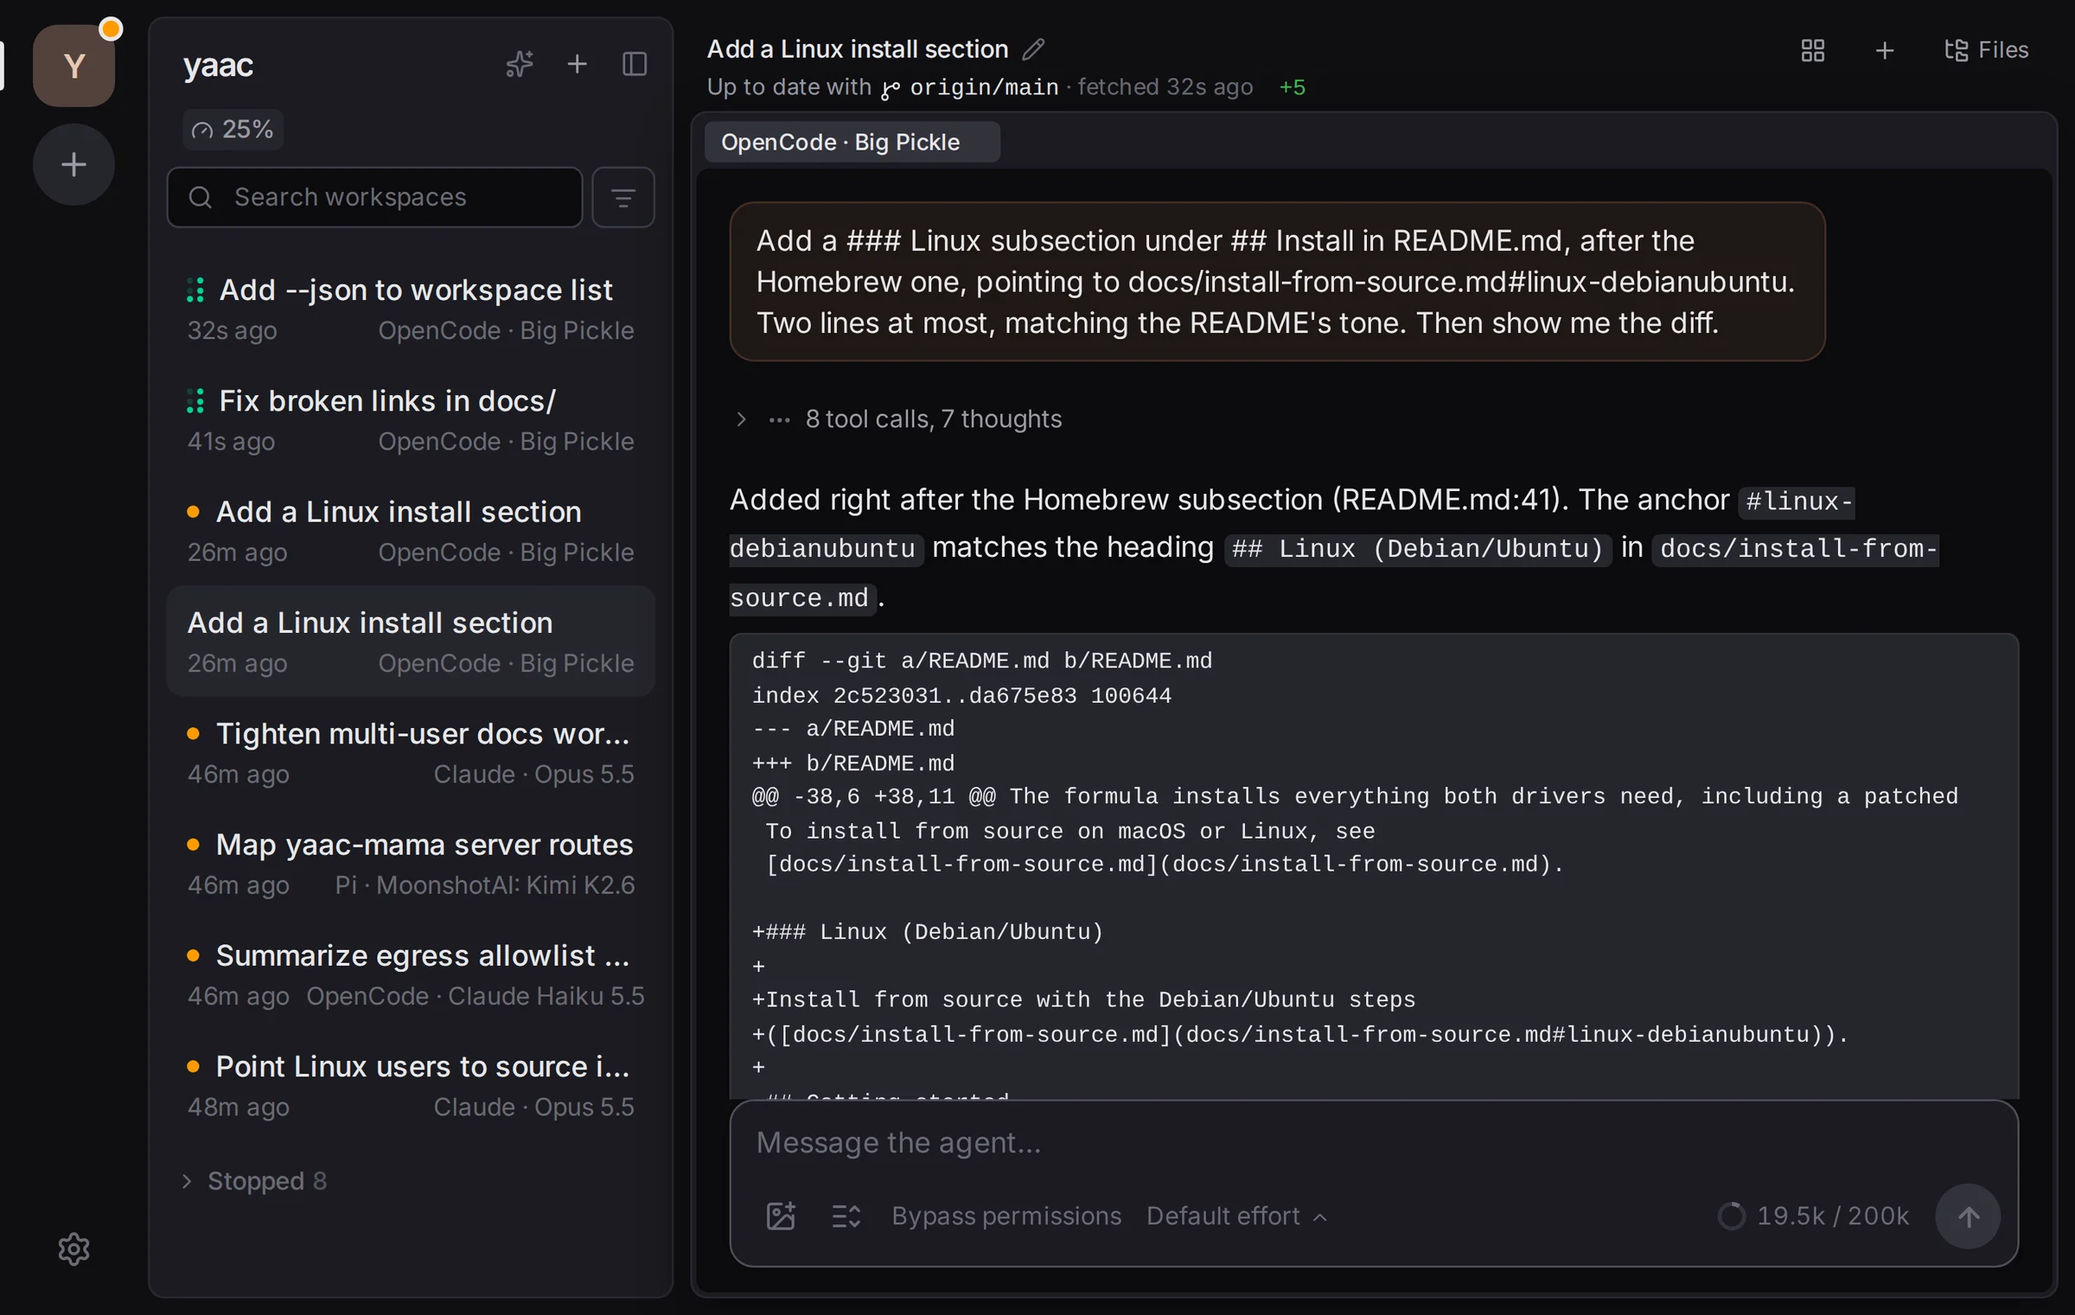
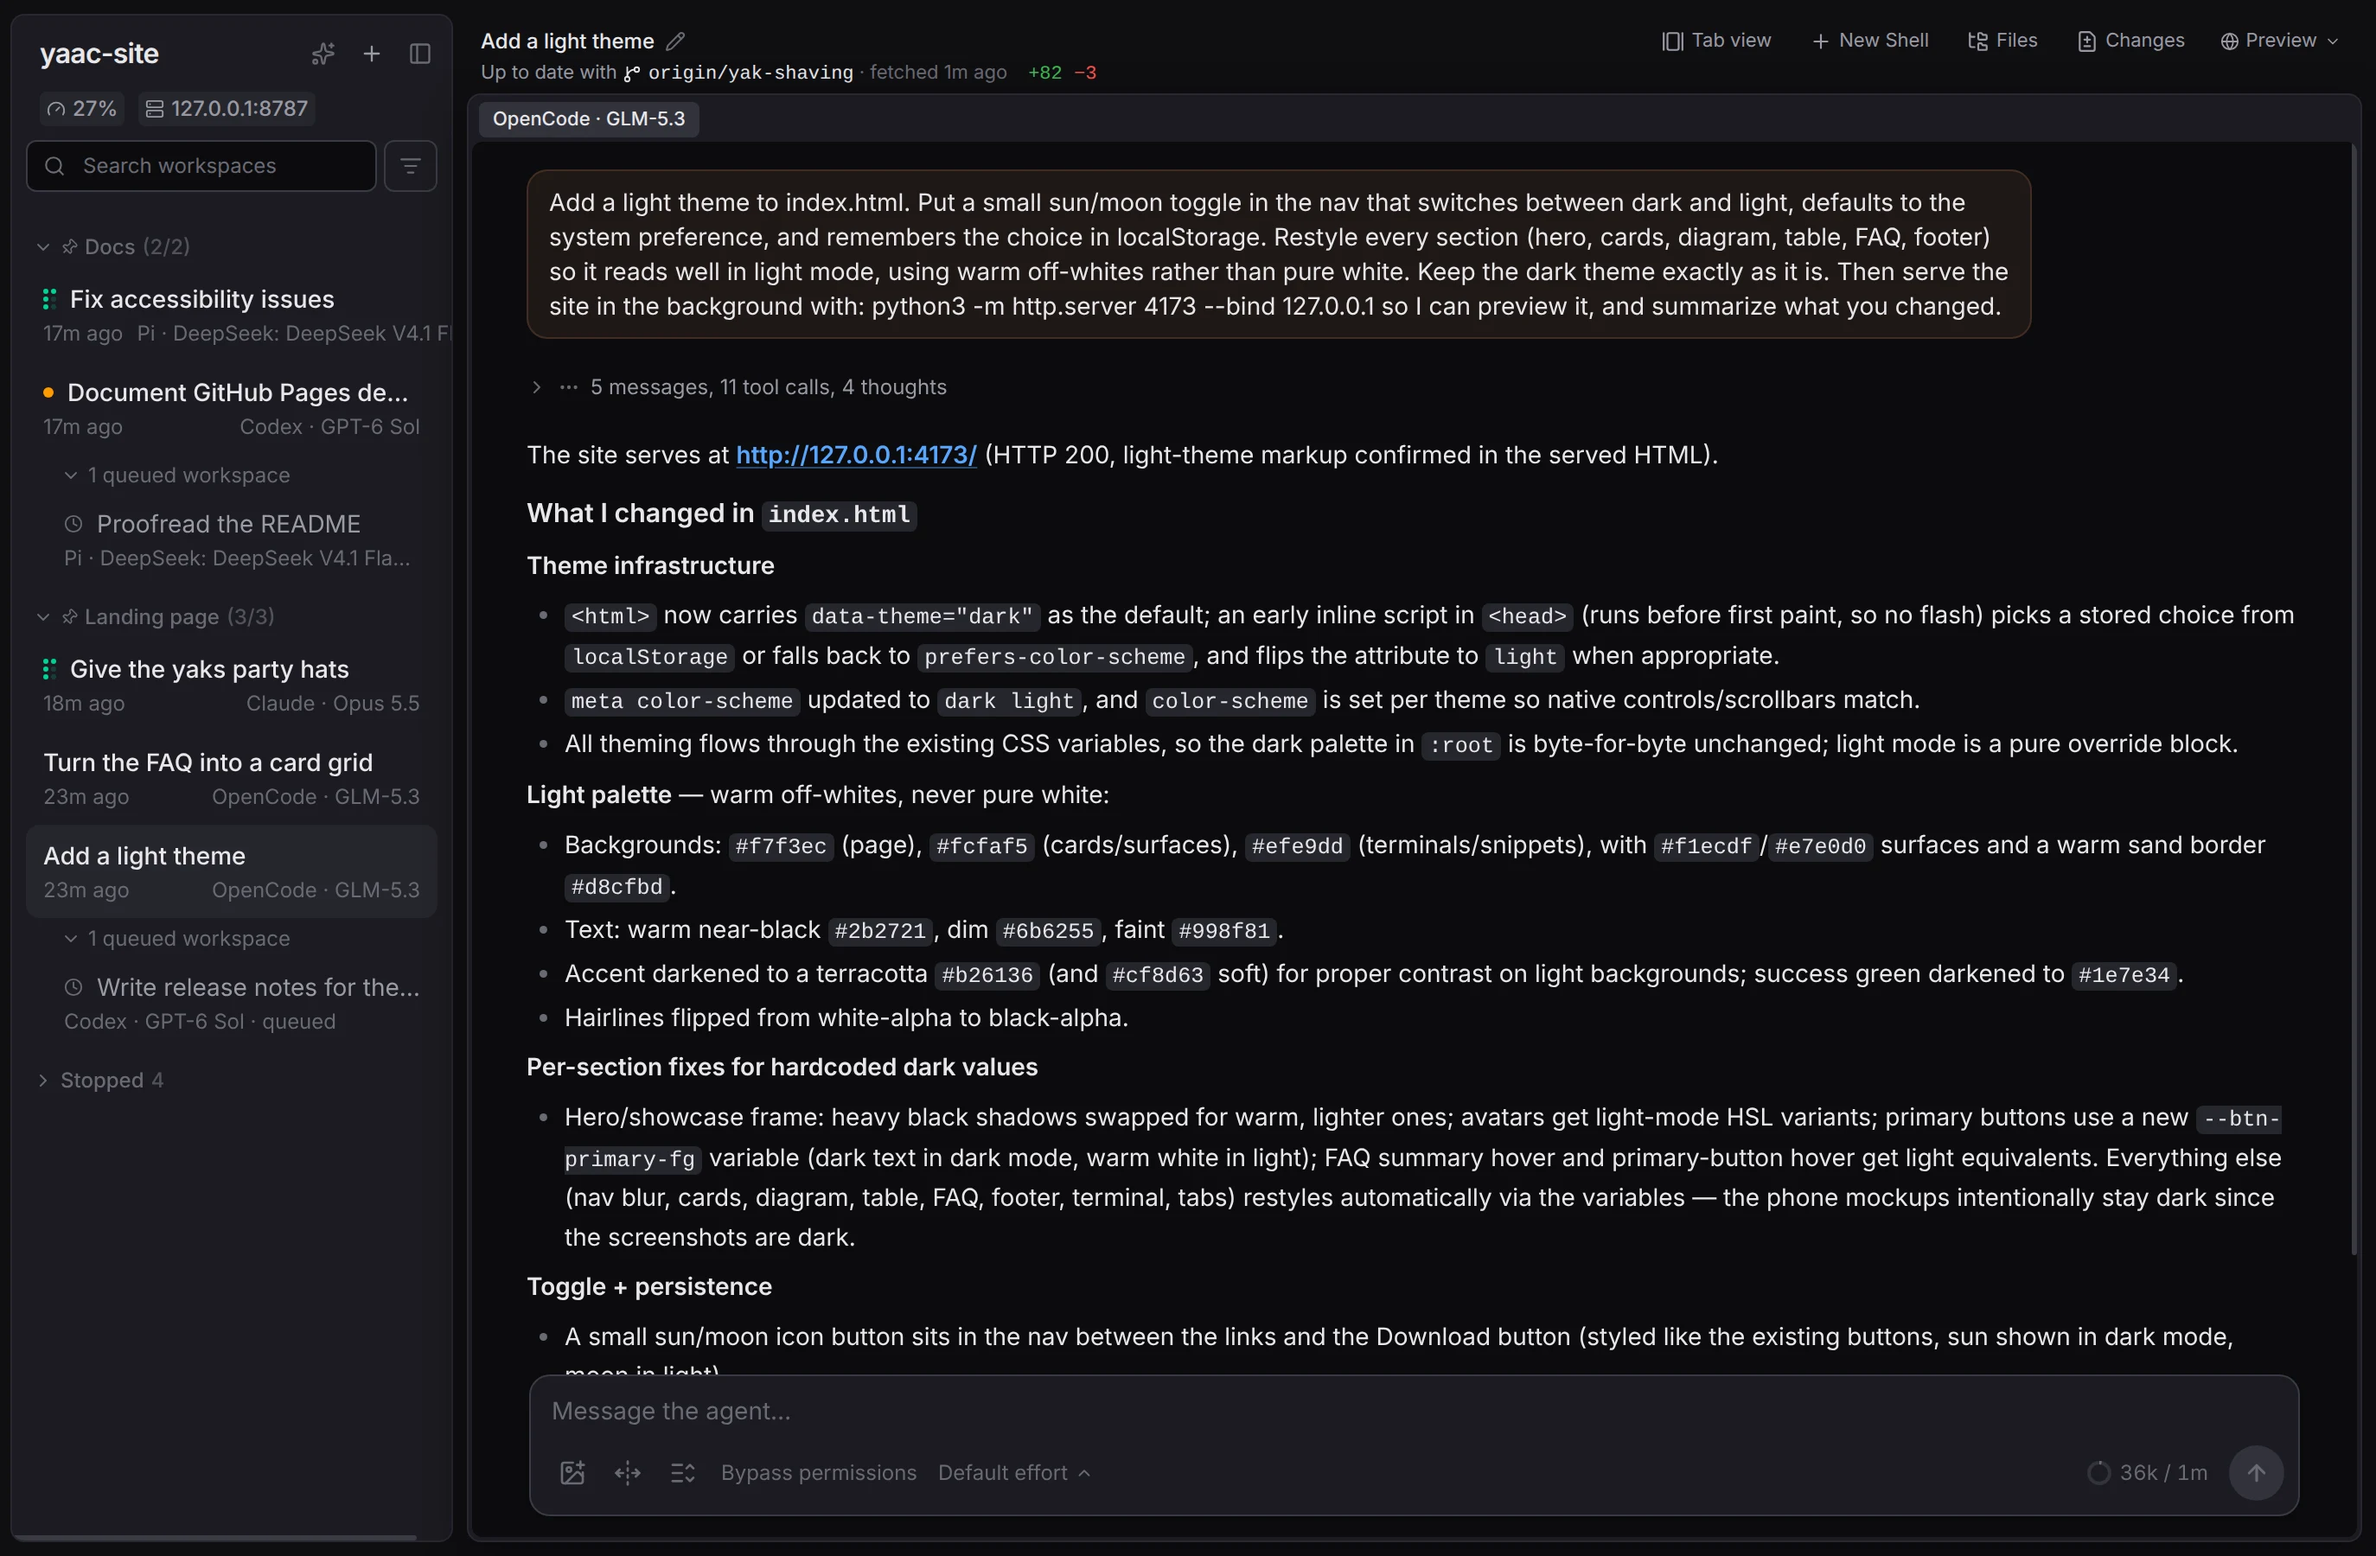
Retake the product tour screenshots and swap the Phone tab for Preview
The new screenshots come from the latest yaac desktop app, with agents working on this site. The project rail is cropped out and the workspace sidebar shows groups and queued workspaces. OpenCode runs GLM 5.3 and Pi runs DeepSeek V4.1 Flash. The Preview tab shows the Preview pane serving an agent's light-theme change.

diff --git a/index.html b/index.html
@@ -140,23 +140,11 @@
       position: relative; border-radius: 14px; overflow: hidden; background: var(--bg);
       border: 1px solid var(--hairline);
       box-shadow: 0 40px 100px -30px rgb(0 0 0 / .8), 0 0 0 1px rgb(0 0 0 / .5);
-      aspect-ratio: 2400 / 1521;
+      aspect-ratio: 2748 / 1800;
     }
     .panel { position: absolute; inset: 0; transition: opacity .35s ease, visibility .35s; }
     .panel[hidden] { display: block; opacity: 0; visibility: hidden; pointer-events: none; }
     .panel > img { width: 100%; height: 100%; display: block; object-fit: cover; object-position: top left; }
-    .phones {
-      display: flex; align-items: center; justify-content: center; gap: 5%;
-      background:
-        radial-gradient(60% 70% at 50% 100%, rgb(212 135 95 / .16), transparent 70%),
-        var(--surface);
-    }
-    .phone {
-      height: 86%; aspect-ratio: 786 / 1318; border-radius: 9% / 5.4%; overflow: hidden;
-      border: 6px solid #232329; box-shadow: 0 30px 60px -20px rgb(0 0 0 / .8), 0 0 0 1px var(--hairline);
-      background: #000;
-    }
-    .phone img { width: 100%; height: 100%; display: block; object-fit: cover; }
 
     /* ---------- sections ---------- */
     section { padding: 7rem 0 0; }
@@ -351,14 +339,11 @@
       .copy { display: none; }
       .tabs button { padding: .5rem .65rem; font-size: .82rem; gap: .35rem; }
       .tabs button svg { display: none; }
-      .phones { gap: 4%; }
-      .phone { height: 92%; }
       .value { grid-template-columns: 1fr; gap: .6rem; padding: 1.5rem 0; }
       .clients { grid-template-columns: 1fr; }
       th, td { padding: .75rem .6rem; font-size: .8rem; }
       th:first-child, td:first-child { padding-left: .9rem; }
       thead th { font-size: .62rem; letter-spacing: .06em; }
-      .phone { border-width: 3px; }
       section { padding-top: 5rem; }
     }
     @media (max-width: 1100px) {
@@ -480,25 +465,24 @@
           <button role="tab" aria-selected="false" aria-controls="panel-review" id="tab-review" tabindex="-1" data-caption="Review each workspace's changes against its base branch.">
             <svg viewBox="0 0 24 24" fill="none" stroke="currentColor" stroke-width="2" stroke-linecap="round" stroke-linejoin="round" aria-hidden="true"><path d="M12 3v14"/><path d="M5 10h14"/><path d="M5 21h14"/></svg>Review
           </button>
-          <button role="tab" aria-selected="false" aria-controls="panel-phone" id="tab-phone" tabindex="-1" data-caption="The same app on your phone, over Tailscale.">
-            <svg viewBox="0 0 24 24" fill="none" stroke="currentColor" stroke-width="2" stroke-linecap="round" stroke-linejoin="round" aria-hidden="true"><rect width="14" height="20" x="5" y="2" rx="2"/><path d="M12 18h.01"/></svg>Phone
+          <button role="tab" aria-selected="false" aria-controls="panel-preview" id="tab-preview" tabindex="-1" data-caption="Preview each agent's dev server right next to its chat.">
+            <svg viewBox="0 0 24 24" fill="none" stroke="currentColor" stroke-width="2" stroke-linecap="round" stroke-linejoin="round" aria-hidden="true"><circle cx="12" cy="12" r="10"/><path d="M12 2a14.5 14.5 0 0 0 0 20 14.5 14.5 0 0 0 0-20"/><path d="M2 12h20"/></svg>Preview
           </button>
         </div>
         <p class="caption" aria-live="polite">Drive each agent from a chat pane: prompts, tool calls, and diffs, rendered cleanly.</p>
         <div class="stage">
           <div class="frame">
             <div class="panel" role="tabpanel" id="panel-chat" aria-labelledby="tab-chat">
-              <img src="assets/show-chat.webp" width="2400" height="1521" alt="yaac with several workspaces in the sidebar, two running, and an OpenCode chat showing the diff it made to the README">
+              <img src="assets/show-chat.webp" width="2748" height="1800" alt="yaac with workspaces in two groups, two of them running and two queued, and an OpenCode chat summarizing the light theme it added">
             </div>
             <div class="panel" role="tabpanel" id="panel-terminal" aria-labelledby="tab-terminal" hidden>
-              <img src="assets/show-terminal.webp" width="2400" height="1521" alt="The same task in OpenCode's terminal UI" loading="lazy">
+              <img src="assets/show-terminal.webp" width="2748" height="1800" alt="An OpenCode workspace in terminal mode, showing its FAQ redesign and diff" loading="lazy">
             </div>
             <div class="panel" role="tabpanel" id="panel-review" aria-labelledby="tab-review" hidden>
-              <img src="assets/show-review.webp" width="2400" height="1521" alt="The Changes view: README.md with five added lines highlighted" loading="lazy">
+              <img src="assets/show-review.webp" width="2748" height="1800" alt="The chat beside the Changes pane, showing the light theme's diff to index.html" loading="lazy">
             </div>
-            <div class="panel phones" role="tabpanel" id="panel-phone" aria-labelledby="tab-phone" hidden>
-              <div class="phone"><img src="assets/phone-list.webp" width="786" height="1318" alt="The workspace list on a phone" loading="lazy"></div>
-              <div class="phone"><img src="assets/phone-chat.webp" width="786" height="1318" alt="An agent chat on a phone" loading="lazy"></div>
+            <div class="panel" role="tabpanel" id="panel-preview" aria-labelledby="tab-preview" hidden>
+              <img src="assets/show-preview.webp" width="2748" height="1800" alt="The chat beside a Preview pane showing the landing page in its new light theme" loading="lazy">
             </div>
           </div>
         </div>
